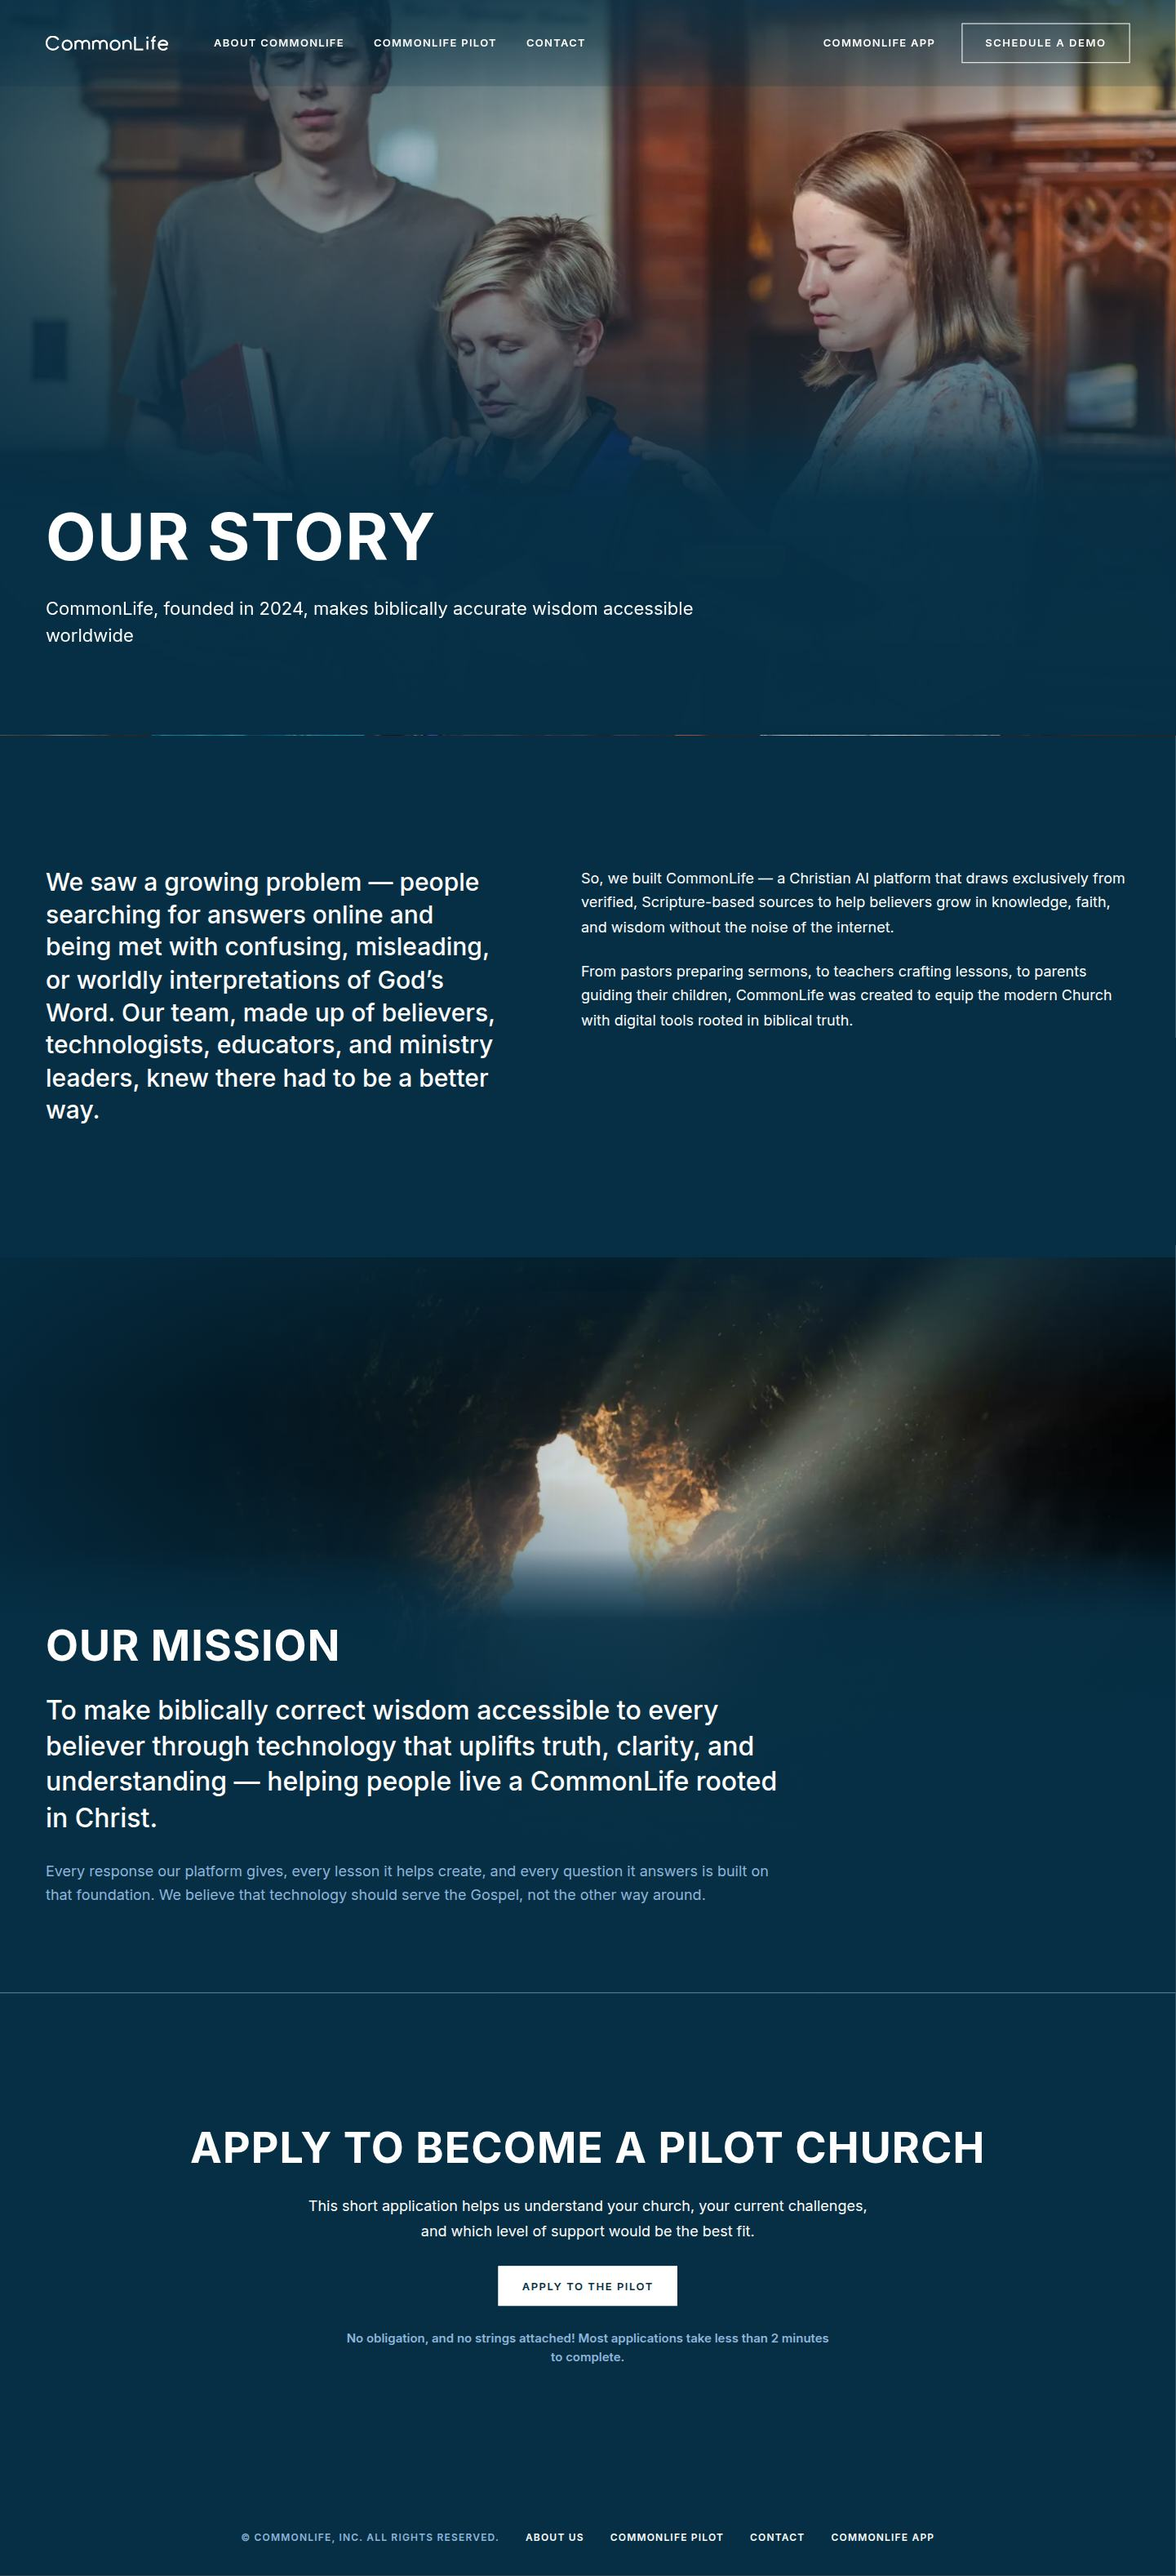
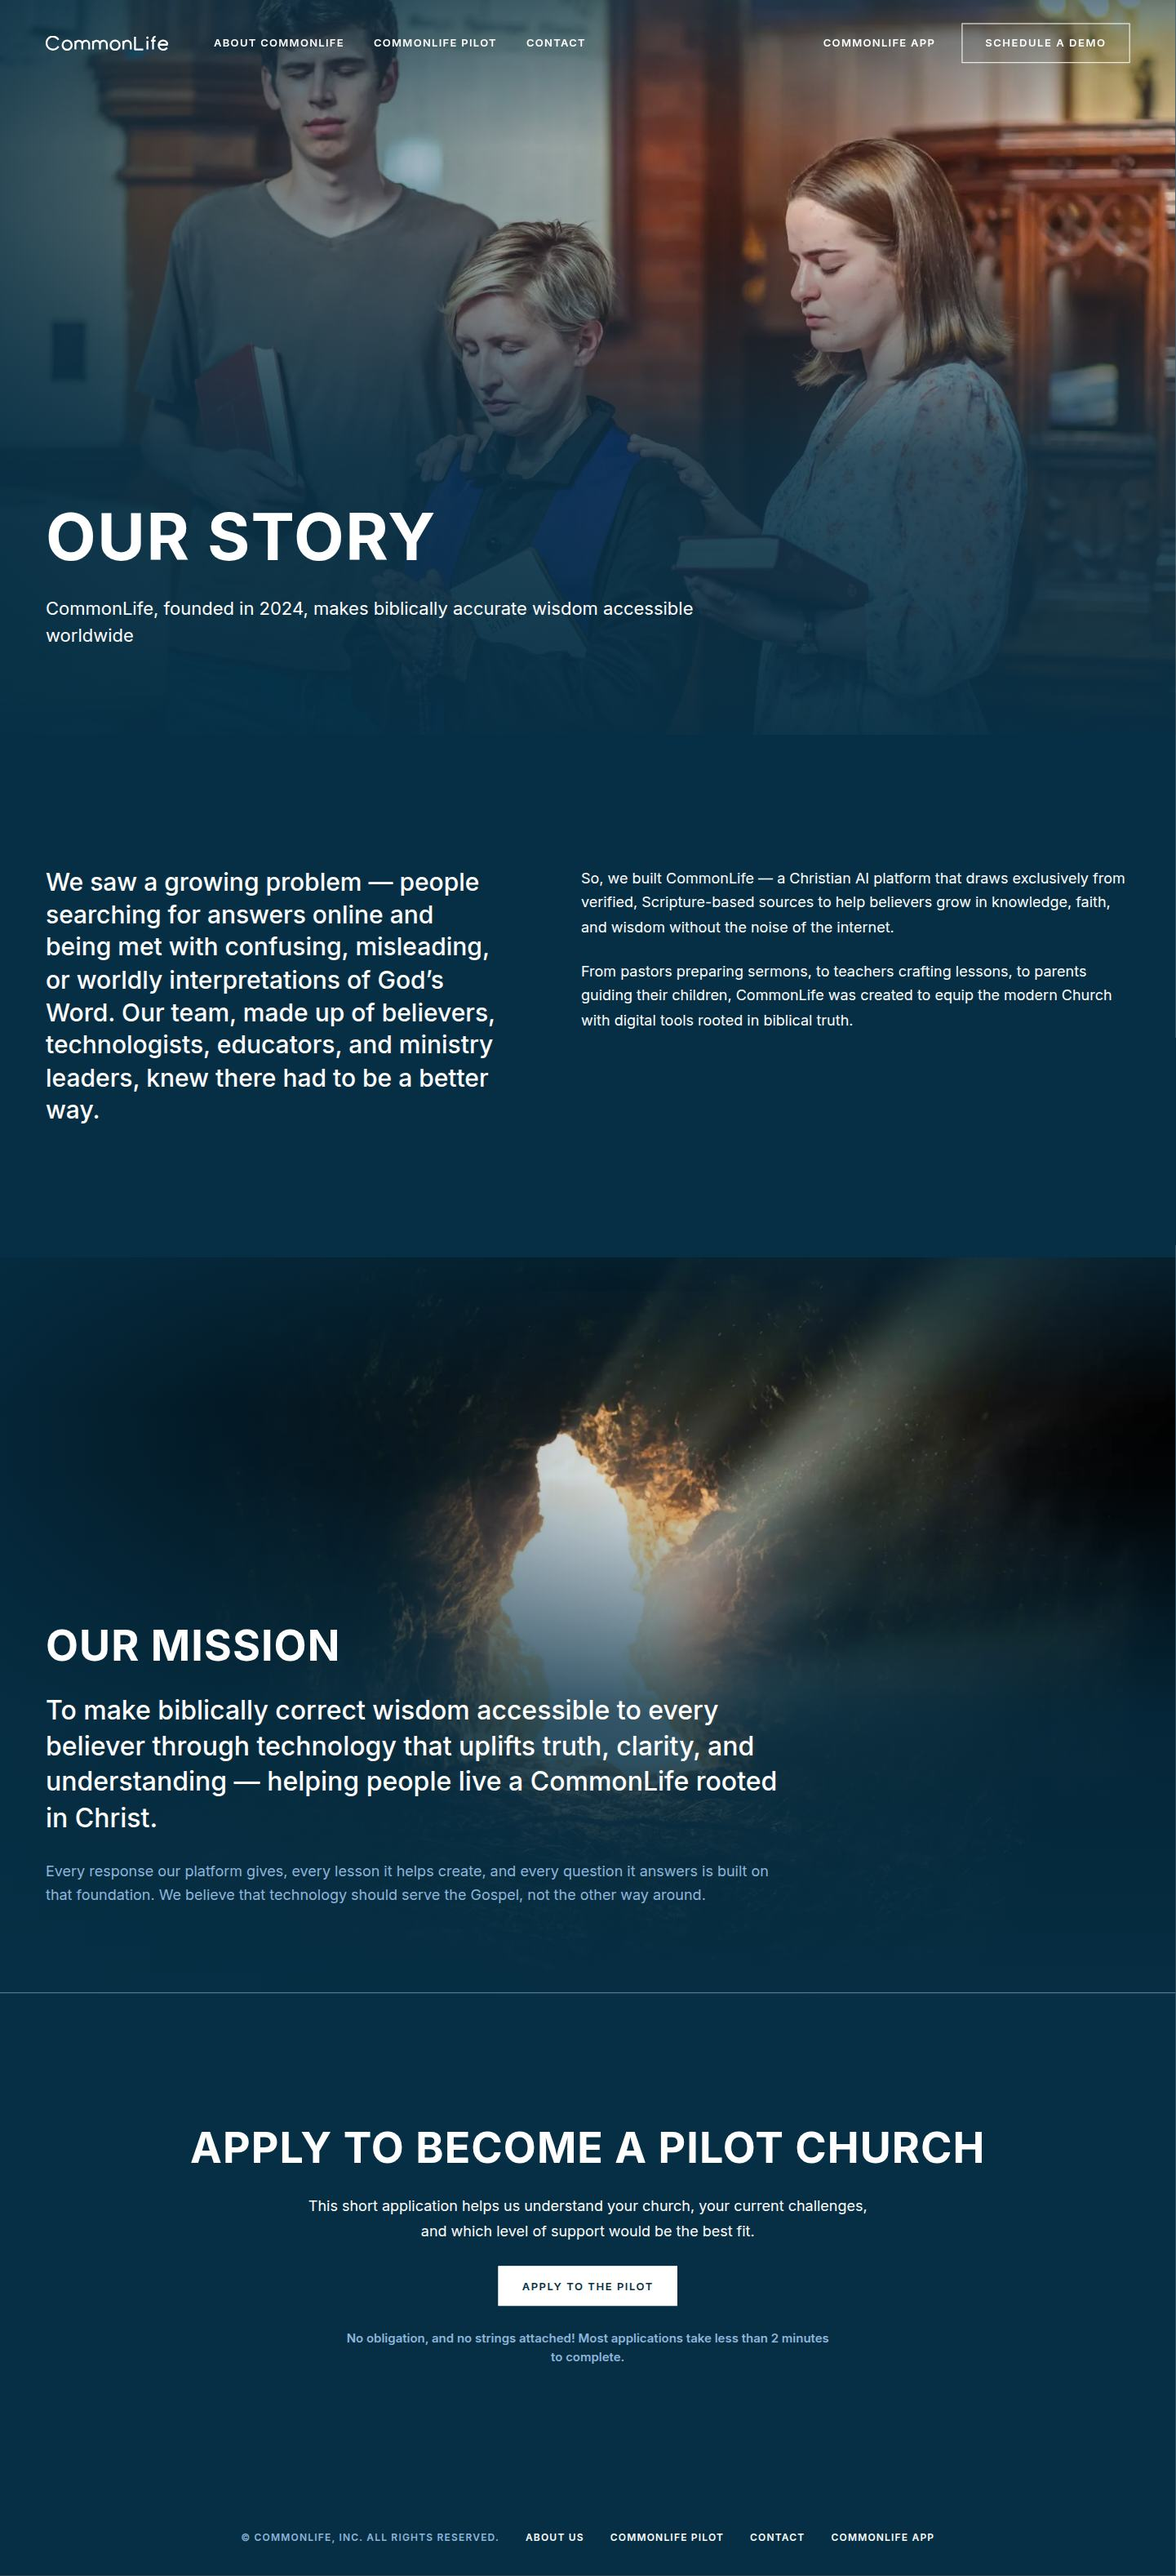
Match the frame photo stops and keep the phone inside the gutter.
Remove the extra dark bands so the overlays are the frame gradients only.
Clip sideways overflow, and give the Guided System column the same 28px gap.

diff --git a/components/horizon/Forms.tsx b/components/horizon/Forms.tsx
@@ -1,6 +1,6 @@
 "use client";
 
-import { useState, type FormEvent } from "react";
+import { useEffect, useRef, useState, type FormEvent } from "react";
 
 import { LinkButton, SubmitButton } from "@/components/horizon/Button";
 import { CheckGroup, SelectField, TextField } from "@/components/horizon/Fields";
@@ -33,12 +33,17 @@ const PILOT_FOCUS = [
 
 const CONTACT_FOCUS = ["firstName", "lastName", "email", "organization", "message", "timeline"] as const;
 
-function focusFirstInvalid(order: readonly string[], invalid: string[]) {
-  const name = order.find((item) => invalid.includes(item));
-  if (!name) return;
-  window.requestAnimationFrame(() => {
+function useInvalidFocus(order: readonly string[], fields: string[]) {
+  const nextName = useRef<string | null>(null);
+  useEffect(() => {
+    const name = nextName.current;
+    if (!name) return;
+    nextName.current = null;
     document.querySelector<HTMLElement>(`[name="${name}"]`)?.focus();
-  });
+  }, [fields]);
+  return (invalid: string[]) => {
+    nextName.current = order.find((item) => invalid.includes(item)) ?? null;
+  };
 }
 
 function Alert({ message }: { message: string }) {
@@ -95,6 +100,7 @@ export function PilotForm() {
   const [alert, setAlert] = useState<string | null>(null);
   const [done, setDone] = useState(false);
   const [pending, setPending] = useState(false);
+  const focusInvalid = useInvalidFocus(PILOT_FOCUS, fields);
   const bad = (name: string) => fields.includes(name);
   const set = (key: keyof typeof emptyPilot) => (value: string) => setValues((current) => ({ ...current, [key]: value }));
 
@@ -105,7 +111,7 @@ export function PilotForm() {
     if (!parsed.ok) {
       setFields(parsed.fields);
       setAlert(FORM_CHECK);
-      focusFirstInvalid(PILOT_FOCUS, parsed.fields);
+      focusInvalid(parsed.fields);
       return;
     }
     setPending(true);
@@ -120,7 +126,7 @@ export function PilotForm() {
       const invalid = data?.fields ?? [];
       setFields(invalid);
       setAlert(data?.error || FORM_CHECK);
-      focusFirstInvalid(PILOT_FOCUS, invalid);
+      focusInvalid(invalid);
     } catch {
       setAlert(FORM_CHECK);
     } finally {
@@ -207,6 +213,7 @@ export function ContactForm({ initial = "form" }: { initial?: "form" | "delivery
   const [alert, setAlert] = useState<string | null>(initial === "delivery-error" ? DELIVERY_ERROR : null);
   const [done, setDone] = useState(initial === "sent");
   const [pending, setPending] = useState(false);
+  const focusInvalid = useInvalidFocus(CONTACT_FOCUS, fields);
   const bad = (name: string) => fields.includes(name);
   const set = (key: keyof typeof emptyContact) => (value: string) => setValues((current) => ({ ...current, [key]: value }));
 
@@ -218,7 +225,7 @@ export function ContactForm({ initial = "form" }: { initial?: "form" | "delivery
       setFields(parsed.fields);
       setAlert(FORM_CHECK);
       setDone(false);
-      focusFirstInvalid(CONTACT_FOCUS, parsed.fields);
+      focusInvalid(parsed.fields);
       return;
     }
     setPending(true);
@@ -234,7 +241,7 @@ export function ContactForm({ initial = "form" }: { initial?: "form" | "delivery
       setDone(false);
       setFields(invalid);
       setAlert(data?.error || FORM_CHECK);
-      focusFirstInvalid(CONTACT_FOCUS, invalid);
+      focusInvalid(invalid);
     } catch {
       setAlert(FORM_CHECK);
     } finally {

diff --git a/app/horizon.css b/app/horizon.css
@@ -21,6 +21,12 @@
   --scrim-m100: 0.97;
 }
 
+html,
+body {
+  max-width: 100%;
+  overflow-x: clip;
+}
+
 .horizon {
   background: var(--cl-deep-ocean);
   color: var(--cl-white);
@@ -452,23 +458,6 @@
   transition: background-color 200ms ease;
 }
 
-.site-header--overlay::before {
-  content: "";
-  position: absolute;
-  z-index: 0;
-  left: 0;
-  right: 0;
-  top: 0;
-  bottom: 0;
-  pointer-events: none;
-  background: linear-gradient(180deg, rgba(6, 47, 69, 0.55) 0%, rgba(6, 47, 69, 0.2) 100%);
-}
-
-.site-header--overlay > * {
-  position: relative;
-  z-index: 1;
-}
-
 .site-header--overlay[data-solid="true"] {
   background: var(--cl-deep-ocean);
 }
@@ -734,19 +723,6 @@
   max-width: 100%;
 }
 
-/* Dark #062F45 only behind the copy. The fade sits above the type so the photo band stays clear. */
-.full-copy::before {
-  content: "";
-  position: absolute;
-  z-index: -1;
-  pointer-events: none;
-  left: -100vw;
-  right: -100vw;
-  top: -88px;
-  bottom: -56px;
-  background: linear-gradient(180deg, rgba(6, 47, 69, 0) 0, rgba(6, 47, 69, 0.45) 36px, rgba(6, 47, 69, 0.9) 88px, rgba(6, 47, 69, 0.96) 100%);
-}
-
 .solid {
   background: var(--cl-deep-ocean);
   padding: 88px 24px;
@@ -802,6 +778,13 @@
 
 .platform-copy {
   gap: 32px;
+}
+
+.solution-copy {
+  display: flex;
+  flex-direction: column;
+  gap: 28px;
+  min-width: 0;
 }
 
 .story-body {
@@ -1235,9 +1218,6 @@ select.control.is-set {
   .full-copy {
     gap: 24px;
   }
-  .full-copy::before {
-    bottom: -88px;
-  }
   .solid {
     padding: 128px 40px;
   }
@@ -1299,9 +1279,6 @@ select.control.is-set {
         rgba(6, 47, 69, 0.8) 62%,
         rgba(6, 47, 69, 0.96) 100%
       );
-  }
-  .full-copy::before {
-    bottom: -104px;
   }
   .solid {
     padding: 160px 56px;
